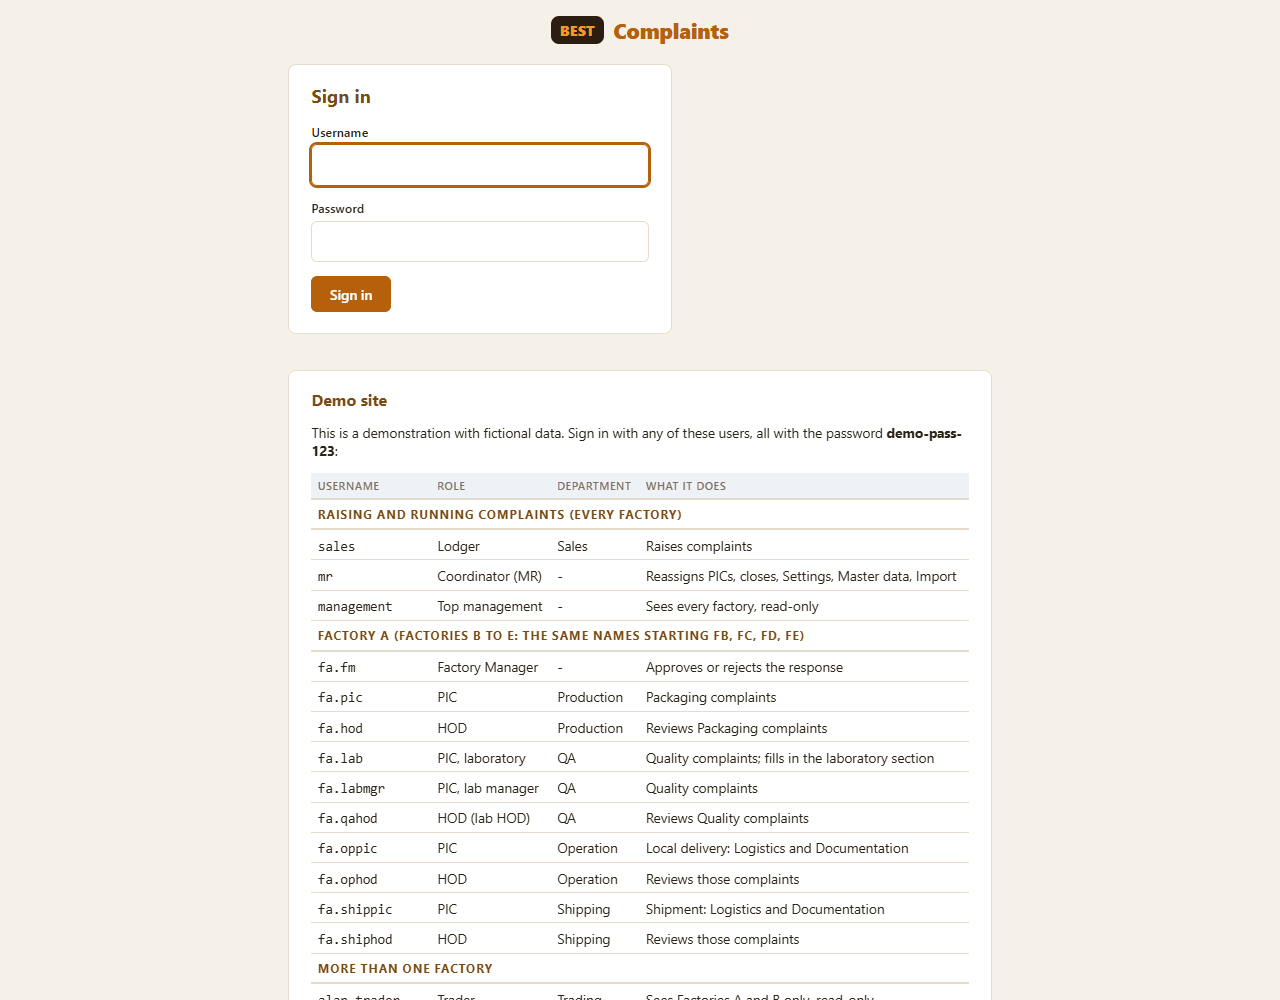
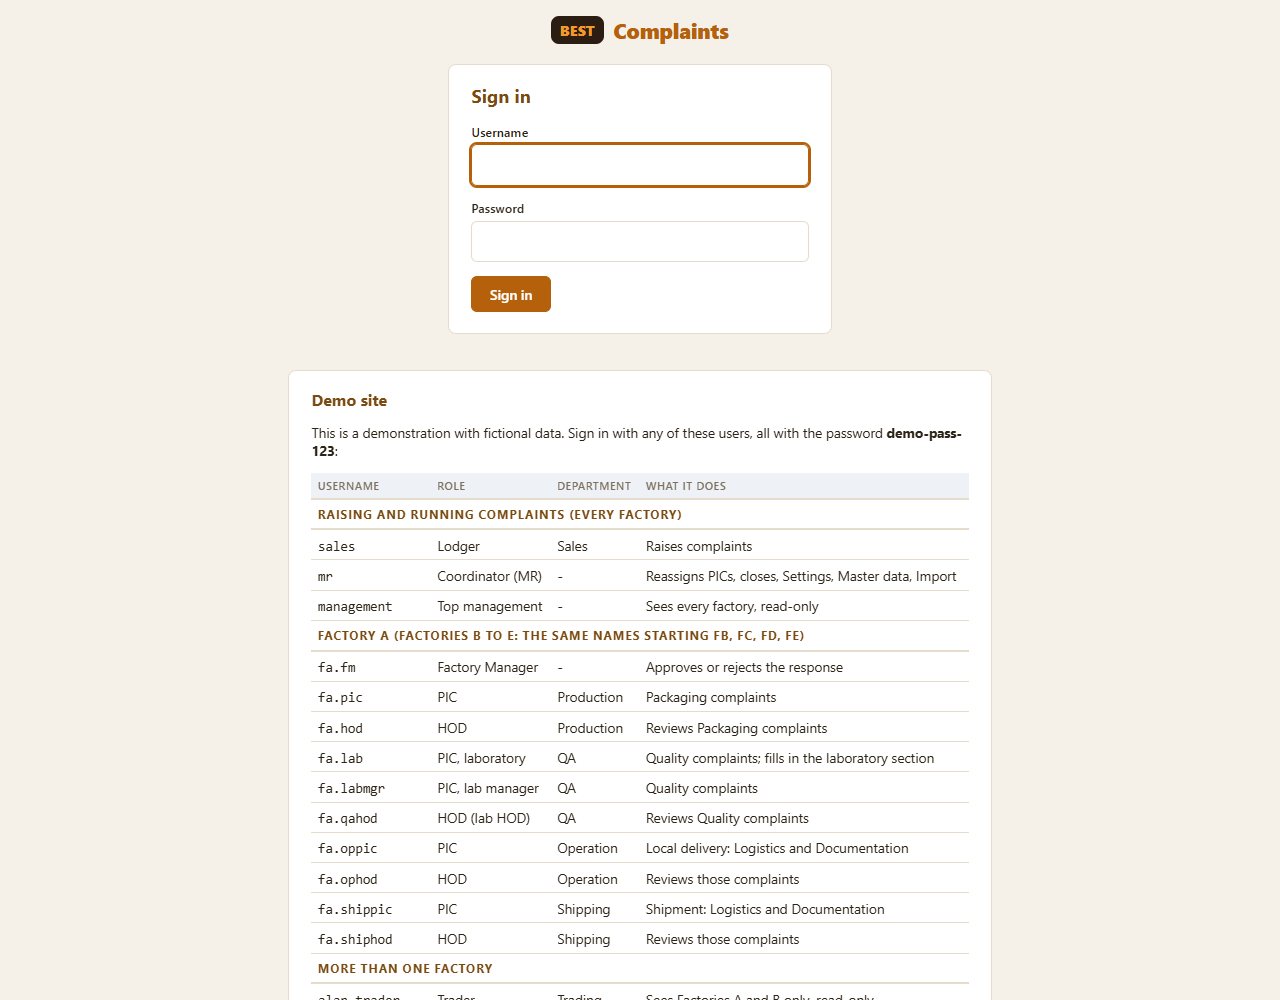
Center login box

diff --git a/static/css/app.css b/static/css/app.css
@@ -258,7 +258,7 @@ button:disabled, .button:disabled { opacity: .55; cursor: not-allowed; }
 .login-brand { display: flex; align-items: center; gap: .6rem; justify-content: center; }
 .login-brand .logo-name { color: var(--accent); font-size: 1.3rem; }
 .login-brand .logo-chip { background: var(--side-bg); color: var(--logo); }
-.login-card { width: min(24rem, 92vw); margin: 0; }
+.login-card { width: min(24rem, 92vw); margin: 0; justify-self: center; }
 .login-card h1 { font-size: 1.15rem; margin-bottom: 1rem; color: var(--brown); }
 .demo-card { margin-top: 1rem; font-size: .85rem; }
 .demo-card h2 { font-size: 1rem; color: var(--brown); margin-bottom: .5rem; }
